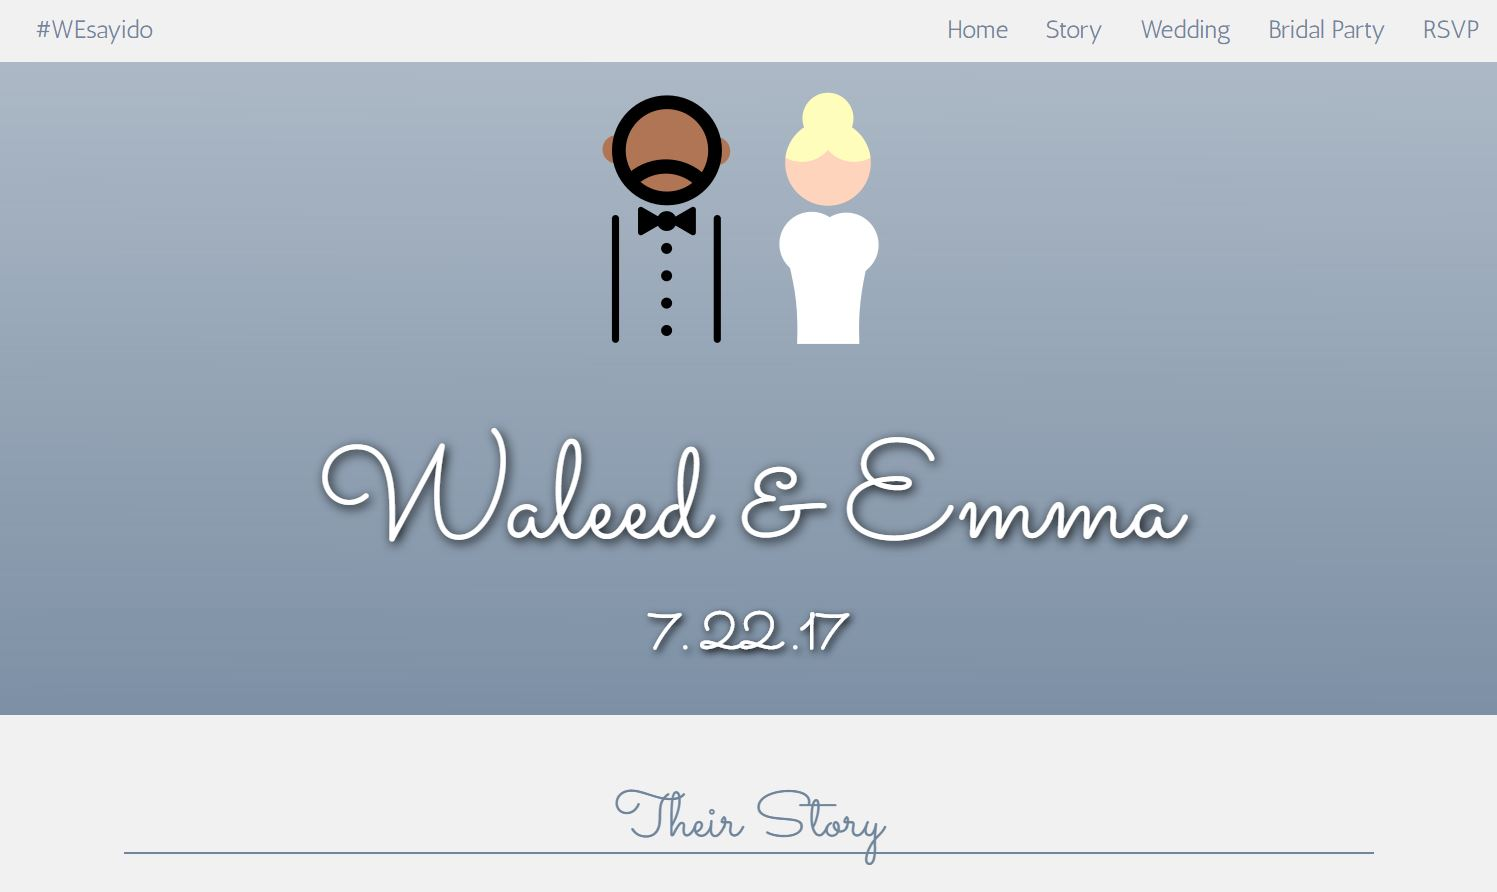
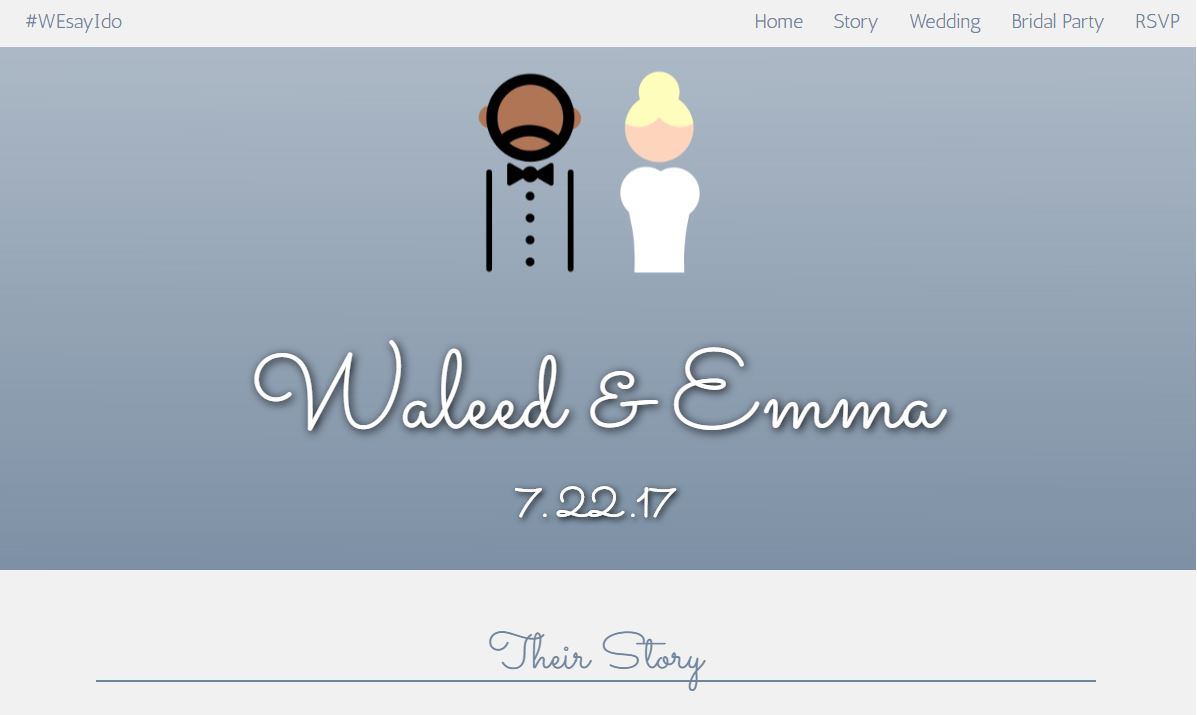
Edit spelling errors on wedding website and related links.
Fix php to show name when email is sent

diff --git a/pages/websites/wesayido.html b/pages/websites/wesayido.html
@@ -2,7 +2,7 @@
 <head>
   <meta http-equiv="content-type" content="text/html">
   <meta charset="utf-8">
-  <title>#WEsayido</title>
+  <title>#WEsayIdo</title>
   <link href="website.css" rel="stylesheet">
   <meta name="viewport" content="width=device-width, initial-scale=1">
   <link href="http://fonts.googleapis.com/css?family=Arimo|Montserrat:700|Cantarell:400,400italic,700italic,700" rel="stylesheet" type="text/css" />
@@ -19,13 +19,13 @@
     </ul>
   </navbar>
   <main>
-    <h2 class="work-title">#WEsayido.</h3>
+    <h2 class="work-title">#WEsayIdo.</h3>
     <h4 class="work-subtitle">A wedding website landing page for my own wedding.</h4>
     <div class="work-section">
       <div class="work-examples">
         <article class="website-example">
           <img src="wedding_website.jpg" class="website-img big">
-          <a href = "../waleedemma/Wesayido.html" target="_blank" class="hover-link">
+          <a href = "../waleedemma/wesayido.html" target="_blank" class="hover-link">
             <button class="portfolio-btn">Click to See Site</button>
           </a>
         </article>

diff --git a/index.html b/index.html
@@ -39,7 +39,7 @@
           <img src="images/wedding_logo.png" class="portfolio-img">
           <a href = "pages/websites/wesayido.html" class="hover-link">
             <h4 class="portfolio-info">Website</h4>
-            <button class="portfolio-btn">#WEsayido</button>
+            <button class="portfolio-btn">#WEsayIdo</button>
           </a>
         </article>
         <article class="portfolio-example">

diff --git a/sendmail.php b/sendmail.php
@@ -5,10 +5,11 @@
     $name = $_POST['name'];
     $email = $_POST['email'];
     $message = $_POST['message'];
-    $header = "Content-Type: text/html\r\nReply-To: $email\r\nFrom: #name <$email>";
+    $header = "Content-Type: text/html\r\nReply-To: $email\r\nFrom: $name <$email>";
 
     $body =
     @"Email sent from ".$_SERVER['REMOTE_ADDR']." at ".date("d/m/Y H:i",time())."<br>
+    $name <br>
     <hr>
     $message
     <hr>
